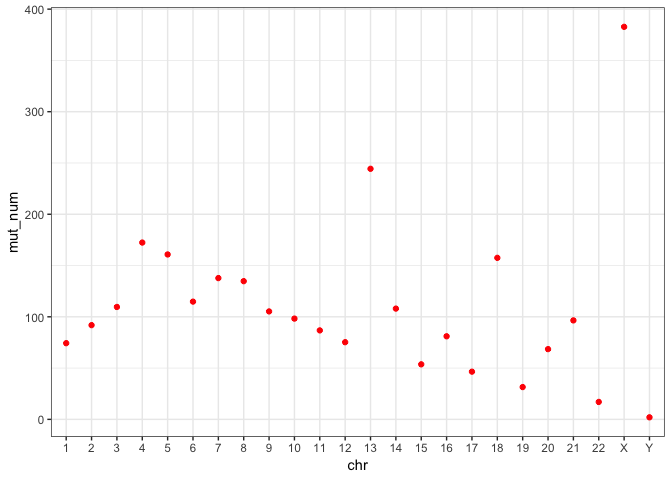
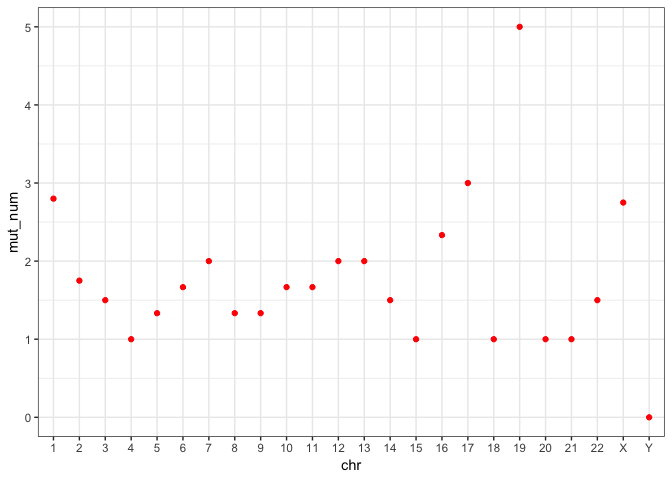
Changes to allow using multiple annotations and dealing with an edge case if no hits are found

diff --git a/tmb_coding.md b/tmb_coding.md
@@ -1,7 +1,7 @@
 ---
 title: "Tumour Mutational Burden (TMB)"
 author: "Sehrish Kanwal"
-date: "Mon 2018-Aug-13"
+date: "Tue 2018-Aug-14"
 output: 
   html_document: 
     keep_md: yes
@@ -123,7 +123,7 @@ bin_chr <- function(chr_lengths, chr_name, bin_size) {
 }
 ```
 
-Count mutations in a chromosome, using specific annotations. For now focussing on using the annotation "coding_sequence_variant", i.e. a sequence variant that changes coding sequence (http://sequenceontology.org/browser/current_svn/term/SO:0001580).
+Count mutations in a chromosome, using specific annotations. For now focussing on using multiple annotations that are more or less related to coding sequence, as the vcf I am testing this code on has no variant with the annotation "coding_sequence_variant", i.e. a sequence variant that changes coding sequence (http://sequenceontology.org/browser/current_svn/term/SO:0001580).
 
 
 ```r
@@ -134,18 +134,26 @@ count_mut_per_bin <- function(chr_pos_ann, bin_vec) {
   region_ann <- unname(region_ann)
   dfs_list <- list()
   for (i in 1:length(region_ann)){
-    if (region_ann[i] == "intergenic_region"){
+    if (region_ann[i] == "frameshift_variant" | region_ann[i] == "missense_variant" | 
+        region_ann[i] == "missense_variant&splice_region_variant"){
         df <- data.frame(chr_pos_ann[i,2], findInterval(chr_pos_ann[i,2], bin_vec))
         dfs_list[[i]] <- df
     }
   }
-
-#Bind rows together
-combined <- bind_rows(dfs_list)
-tab <- table(combined[, 2])
-df <- data.frame(bin_num = names(tab),
+  
+#check if the annotation used for filtering exists in the vcf - i.e. there are rows in the combined df
+if( length(dfs_list) != 0){
+  #Bind rows together
+  combined <- bind_rows(dfs_list)
+  tab <- table(combined[, 2])
+  df <- data.frame(bin_num = names(tab),
                    num_mut_in_bin = c(unname(tab)),
                    stringsAsFactors = FALSE)
+} else {
+  df <- data.frame(bin_num = 0,
+                   num_mut_in_bin = 0,
+                   stringsAsFactors = FALSE)
+}
 #df
 }
 ```
@@ -157,17 +165,23 @@ Apply same function to all chromosomes. This gives a numerical vector containing
 results <- vector("numeric", length = length(chr_names))
 results3 <- vector("numeric", length = length(chr_names))
 for (i in 1:length(chr_names)) {
-  results[i] <- mean(count_mut_per_bin(filter_chr(chr_names[i], vcf), bin_chr(chr_lengths, chr_names[i], bin_size))[, 2])
-  results3[i] <- sum(count_mut_per_bin(filter_chr(chr_names[i], vcf), bin_chr(chr_lengths, chr_names[i], bin_size))[, 2])
+  #check if there exists any mutation with the specified annotation, in the vcf. 
+  if(count_mut_per_bin(filter_chr(chr_names[i], vcf), bin_chr(chr_lengths, chr_names[i], bin_size))[1, 1] != 0){
+    results[i] <- mean(count_mut_per_bin(filter_chr(chr_names[i], vcf), bin_chr(chr_lengths, chr_names[i], bin_size))[, 2])
+    results3[i] <- sum(count_mut_per_bin(filter_chr(chr_names[i], vcf), bin_chr(chr_lengths, chr_names[i], bin_size))[, 2])
+  } else{
+    results[i] <- 0
+    results3[i] <- 0
+  }
 }
 print(results)
-##  [1]  74.28571  91.85714 109.60000 172.40000 160.80000 114.80000 137.75000
-##  [8] 134.75000 105.25000  98.25000  86.75000  75.25000 244.33333 108.00000
-## [15]  53.66667  81.00000  46.50000 157.50000  31.50000  68.50000  96.50000
-## [22]  17.00000 382.75000   2.00000
+##  [1] 2.800000 1.750000 1.500000 1.000000 1.333333 1.666667 2.000000
+##  [8] 1.333333 1.333333 1.666667 1.666667 2.000000 2.000000 1.500000
+## [15] 1.000000 2.333333 3.000000 1.000000 5.000000 1.000000 1.000000
+## [22] 1.500000 2.750000 0.000000
 print(results3)
-##  [1]  520  643  548  862  804  574  551  539  421  393  347  301  733  324
-## [15]  161  243   93  315   63  137  193   34 1531    2
+##  [1] 14  7  6  2  4  5  8  4  4  5  5  6  4  3  1  7  3  1 10  1  1  3 11
+## [24]  0
 ```
 
 
@@ -177,7 +191,10 @@ print(results3)
 ```r
 results2 <- vector("list", length = length(chr_names))
 for (i in 1:length(chr_names)) {
-  results2[[i]] <- count_mut_per_bin(filter_chr(chr_names[i], vcf), bin_chr(chr_lengths, chr_names[i], bin_size))
+  #check if there exists any mutation with the specified annotation, in the vcf. 
+  if(count_mut_per_bin(filter_chr(chr_names[i], vcf), bin_chr(chr_lengths, chr_names[i], bin_size))[1, 1] != 0){
+    results2[[i]] <- count_mut_per_bin(filter_chr(chr_names[i], vcf), bin_chr(chr_lengths, chr_names[i], bin_size))
+  }
 }
 ```
 
@@ -185,84 +202,104 @@ for (i in 1:length(chr_names)) {
 
 
 ```r
-names(results2) <- paste("chr", chr_names, sep = "")
-str(results2)
+if (all(sapply(results2, function(x) is.null(x))) != TRUE){
+  names(results2) <- paste("chr", chr_names, sep = "")
+  str(results2)
+  #binding1 <- do.call("rbind", results2) # this sucks
+  binding2 <- dplyr::bind_rows(results2, .id = "chromosome")
+}
 ## List of 24
-##  $ chr1 :'data.frame':	7 obs. of  2 variables:
-##   ..$ bin_num       : chr [1:7] "1" "2" "3" "4" ...
-##   ..$ num_mut_in_bin: int [1:7] 65 68 133 12 150 70 22
-##  $ chr2 :'data.frame':	7 obs. of  2 variables:
-##   ..$ bin_num       : chr [1:7] "1" "2" "3" "4" ...
-##   ..$ num_mut_in_bin: int [1:7] 134 121 100 128 77 76 7
-##  $ chr3 :'data.frame':	5 obs. of  2 variables:
-##   ..$ bin_num       : chr [1:5] "1" "2" "3" "4" ...
-##   ..$ num_mut_in_bin: int [1:5] 121 60 186 77 104
-##  $ chr4 :'data.frame':	5 obs. of  2 variables:
-##   ..$ bin_num       : chr [1:5] "1" "2" "3" "4" ...
-##   ..$ num_mut_in_bin: int [1:5] 201 206 79 194 182
-##  $ chr5 :'data.frame':	5 obs. of  2 variables:
-##   ..$ bin_num       : chr [1:5] "1" "2" "3" "4" ...
-##   ..$ num_mut_in_bin: int [1:5] 371 99 172 75 87
-##  $ chr6 :'data.frame':	5 obs. of  2 variables:
-##   ..$ bin_num       : chr [1:5] "1" "2" "3" "4" ...
-##   ..$ num_mut_in_bin: int [1:5] 80 190 198 65 41
+##  $ chr1 :'data.frame':	5 obs. of  2 variables:
+##   ..$ bin_num       : chr [1:5] "1" "2" "4" "5" ...
+##   ..$ num_mut_in_bin: int [1:5] 5 1 2 3 3
+##  $ chr2 :'data.frame':	4 obs. of  2 variables:
+##   ..$ bin_num       : chr [1:4] "2" "3" "5" "6"
+##   ..$ num_mut_in_bin: int [1:4] 1 1 2 3
+##  $ chr3 :'data.frame':	4 obs. of  2 variables:
+##   ..$ bin_num       : chr [1:4] "1" "2" "3" "4"
+##   ..$ num_mut_in_bin: int [1:4] 1 3 1 1
+##  $ chr4 :'data.frame':	2 obs. of  2 variables:
+##   ..$ bin_num       : chr [1:2] "1" "3"
+##   ..$ num_mut_in_bin: int [1:2] 1 1
+##  $ chr5 :'data.frame':	3 obs. of  2 variables:
+##   ..$ bin_num       : chr [1:3] "2" "4" "5"
+##   ..$ num_mut_in_bin: int [1:3] 1 2 1
+##  $ chr6 :'data.frame':	3 obs. of  2 variables:
+##   ..$ bin_num       : chr [1:3] "1" "2" "5"
+##   ..$ num_mut_in_bin: int [1:3] 3 1 1
 ##  $ chr7 :'data.frame':	4 obs. of  2 variables:
 ##   ..$ bin_num       : chr [1:4] "1" "2" "3" "4"
-##   ..$ num_mut_in_bin: int [1:4] 115 205 127 104
-##  $ chr8 :'data.frame':	4 obs. of  2 variables:
-##   ..$ bin_num       : chr [1:4] "1" "2" "3" "4"
-##   ..$ num_mut_in_bin: int [1:4] 121 136 174 108
-##  $ chr9 :'data.frame':	4 obs. of  2 variables:
-##   ..$ bin_num       : chr [1:4] "1" "2" "3" "4"
-##   ..$ num_mut_in_bin: int [1:4] 228 30 120 43
-##  $ chr10:'data.frame':	4 obs. of  2 variables:
-##   ..$ bin_num       : chr [1:4] "1" "2" "3" "4"
-##   ..$ num_mut_in_bin: int [1:4] 129 83 151 30
-##  $ chr11:'data.frame':	4 obs. of  2 variables:
-##   ..$ bin_num       : chr [1:4] "1" "2" "3" "4"
-##   ..$ num_mut_in_bin: int [1:4] 86 77 137 47
-##  $ chr12:'data.frame':	4 obs. of  2 variables:
-##   ..$ bin_num       : chr [1:4] "1" "2" "3" "4"
-##   ..$ num_mut_in_bin: int [1:4] 81 91 92 37
-##  $ chr13:'data.frame':	3 obs. of  2 variables:
+##   ..$ num_mut_in_bin: int [1:4] 1 1 4 2
+##  $ chr8 :'data.frame':	3 obs. of  2 variables:
 ##   ..$ bin_num       : chr [1:3] "1" "2" "3"
-##   ..$ num_mut_in_bin: int [1:3] 44 432 257
-##  $ chr14:'data.frame':	3 obs. of  2 variables:
+##   ..$ num_mut_in_bin: int [1:3] 2 1 1
+##  $ chr9 :'data.frame':	3 obs. of  2 variables:
+##   ..$ bin_num       : chr [1:3] "1" "2" "4"
+##   ..$ num_mut_in_bin: int [1:3] 2 1 1
+##  $ chr10:'data.frame':	3 obs. of  2 variables:
+##   ..$ bin_num       : chr [1:3] "1" "2" "4"
+##   ..$ num_mut_in_bin: int [1:3] 1 3 1
+##  $ chr11:'data.frame':	3 obs. of  2 variables:
 ##   ..$ bin_num       : chr [1:3] "1" "2" "3"
-##   ..$ num_mut_in_bin: int [1:3] 74 142 108
-##  $ chr15:'data.frame':	3 obs. of  2 variables:
-##   ..$ bin_num       : chr [1:3] "1" "2" "3"
-##   ..$ num_mut_in_bin: int [1:3] 33 35 93
+##   ..$ num_mut_in_bin: int [1:3] 2 2 1
+##  $ chr12:'data.frame':	3 obs. of  2 variables:
+##   ..$ bin_num       : chr [1:3] "2" "3" "4"
+##   ..$ num_mut_in_bin: int [1:3] 2 1 3
+##  $ chr13:'data.frame':	2 obs. of  2 variables:
+##   ..$ bin_num       : chr [1:2] "1" "2"
+##   ..$ num_mut_in_bin: int [1:2] 2 2
+##  $ chr14:'data.frame':	2 obs. of  2 variables:
+##   ..$ bin_num       : chr [1:2] "1" "3"
+##   ..$ num_mut_in_bin: int [1:2] 1 2
+##  $ chr15:'data.frame':	1 obs. of  2 variables:
+##   ..$ bin_num       : chr "1"
+##   ..$ num_mut_in_bin: int 1
 ##  $ chr16:'data.frame':	3 obs. of  2 variables:
 ##   ..$ bin_num       : chr [1:3] "1" "2" "3"
-##   ..$ num_mut_in_bin: int [1:3] 53 174 16
-##  $ chr17:'data.frame':	2 obs. of  2 variables:
-##   ..$ bin_num       : chr [1:2] "1" "2"
-##   ..$ num_mut_in_bin: int [1:2] 43 50
-##  $ chr18:'data.frame':	2 obs. of  2 variables:
-##   ..$ bin_num       : chr [1:2] "1" "2"
-##   ..$ num_mut_in_bin: int [1:2] 124 191
+##   ..$ num_mut_in_bin: int [1:3] 2 4 1
+##  $ chr17:'data.frame':	1 obs. of  2 variables:
+##   ..$ bin_num       : chr "1"
+##   ..$ num_mut_in_bin: int 3
+##  $ chr18:'data.frame':	1 obs. of  2 variables:
+##   ..$ bin_num       : chr "2"
+##   ..$ num_mut_in_bin: int 1
 ##  $ chr19:'data.frame':	2 obs. of  2 variables:
 ##   ..$ bin_num       : chr [1:2] "1" "2"
-##   ..$ num_mut_in_bin: int [1:2] 56 7
-##  $ chr20:'data.frame':	2 obs. of  2 variables:
-##   ..$ bin_num       : chr [1:2] "1" "2"
-##   ..$ num_mut_in_bin: int [1:2] 61 76
-##  $ chr21:'data.frame':	2 obs. of  2 variables:
-##   ..$ bin_num       : chr [1:2] "1" "2"
-##   ..$ num_mut_in_bin: int [1:2] 188 5
+##   ..$ num_mut_in_bin: int [1:2] 7 3
+##  $ chr20:'data.frame':	1 obs. of  2 variables:
+##   ..$ bin_num       : chr "2"
+##   ..$ num_mut_in_bin: int 1
+##  $ chr21:'data.frame':	1 obs. of  2 variables:
+##   ..$ bin_num       : chr "1"
+##   ..$ num_mut_in_bin: int 1
 ##  $ chr22:'data.frame':	2 obs. of  2 variables:
 ##   ..$ bin_num       : chr [1:2] "1" "2"
-##   ..$ num_mut_in_bin: int [1:2] 15 19
+##   ..$ num_mut_in_bin: int [1:2] 2 1
 ##  $ chrX :'data.frame':	4 obs. of  2 variables:
 ##   ..$ bin_num       : chr [1:4] "1" "2" "3" "4"
-##   ..$ num_mut_in_bin: int [1:4] 250 265 568 448
-##  $ chrY :'data.frame':	1 obs. of  2 variables:
-##   ..$ bin_num       : chr "1"
-##   ..$ num_mut_in_bin: int 2
-#binding1 <- do.call("rbind", results2) # this sucks
-binding2 <- dplyr::bind_rows(results2, .id = "chromosome")
+##   ..$ num_mut_in_bin: int [1:4] 2 5 1 3
+##  $ chrY : NULL
 ```
+
+Plotting and comparing mutations (filtered using specific annotations), across bins in all chromosomes
+
+
+```r
+if (exists("binding2")){
+  df <- binding2 
+  df_new <- dplyr::mutate(df, chr_factor = factor(chromosome, levels = gtools::mixedsort(unique(chromosome))))
+  head(df)
+  bp <- ggplot(df_new, aes(x = bin_num, y = num_mut_in_bin)) +
+    geom_bar(stat = "identity", fill="blue", colour = "pink") +
+    facet_wrap(~chr_factor) +
+    theme_bw(base_size = 10)
+  bp + guides(fill=FALSE)
+} else {
+  print("No mutations present with the speicifed annotation")
+}
+```
+
+![](tmb_coding_files/figure-html/mut_per_bin_per_chrom-1.png)<!-- -->
 
 Plotting the total number of variants (filtered using specific annotations) across all chromosomes
 
@@ -271,30 +308,30 @@ Plotting the total number of variants (filtered using specific annotations) acro
 df <- data.frame(chr = chr_fac, mut_num = results3)
 df
 ##    chr mut_num
-## 1    1     520
-## 2    2     643
-## 3    3     548
-## 4    4     862
-## 5    5     804
-## 6    6     574
-## 7    7     551
-## 8    8     539
-## 9    9     421
-## 10  10     393
-## 11  11     347
-## 12  12     301
-## 13  13     733
-## 14  14     324
-## 15  15     161
-## 16  16     243
-## 17  17      93
-## 18  18     315
-## 19  19      63
-## 20  20     137
-## 21  21     193
-## 22  22      34
-## 23   X    1531
-## 24   Y       2
+## 1    1      14
+## 2    2       7
+## 3    3       6
+## 4    4       2
+## 5    5       4
+## 6    6       5
+## 7    7       8
+## 8    8       4
+## 9    9       4
+## 10  10       5
+## 11  11       5
+## 12  12       6
+## 13  13       4
+## 14  14       3
+## 15  15       1
+## 16  16       7
+## 17  17       3
+## 18  18       1
+## 19  19      10
+## 20  20       1
+## 21  21       1
+## 22  22       3
+## 23   X      11
+## 24   Y       0
 ggplot(df, aes(x = chr, y = mut_num)) +
   geom_point(colour = "purple") +
   theme_bw()
@@ -313,29 +350,6 @@ ggplot(df, aes(x = chr, y = mut_num)) +
 ```
 
 ![](tmb_coding_files/figure-html/mean_of_varinats_per_bin_per_chrom-1.png)<!-- -->
-
-Plotting and comparing mutations (filtered using specific annotations), across bins in all chromosomes
-
-
-```r
-df <- binding2 
-df_new <- dplyr::mutate(df, chr_factor = factor(chromosome, levels = gtools::mixedsort(unique(chromosome))))
-head(df)
-##   chromosome bin_num num_mut_in_bin
-## 1       chr1       1             65
-## 2       chr1       2             68
-## 3       chr1       3            133
-## 4       chr1       4             12
-## 5       chr1       5            150
-## 6       chr1       6             70
-bp <- ggplot(df_new, aes(x = bin_num, y = num_mut_in_bin)) +
-  geom_bar(stat = "identity", fill="blue", colour = "pink") +
-  facet_wrap(~chr_factor) +
-  theme_bw(base_size = 10)
-bp + guides(fill=FALSE)
-```
-
-![](tmb_coding_files/figure-html/mut_per_bin_per_chrom-1.png)<!-- -->
 
 Calculating mutations per megabase
 
